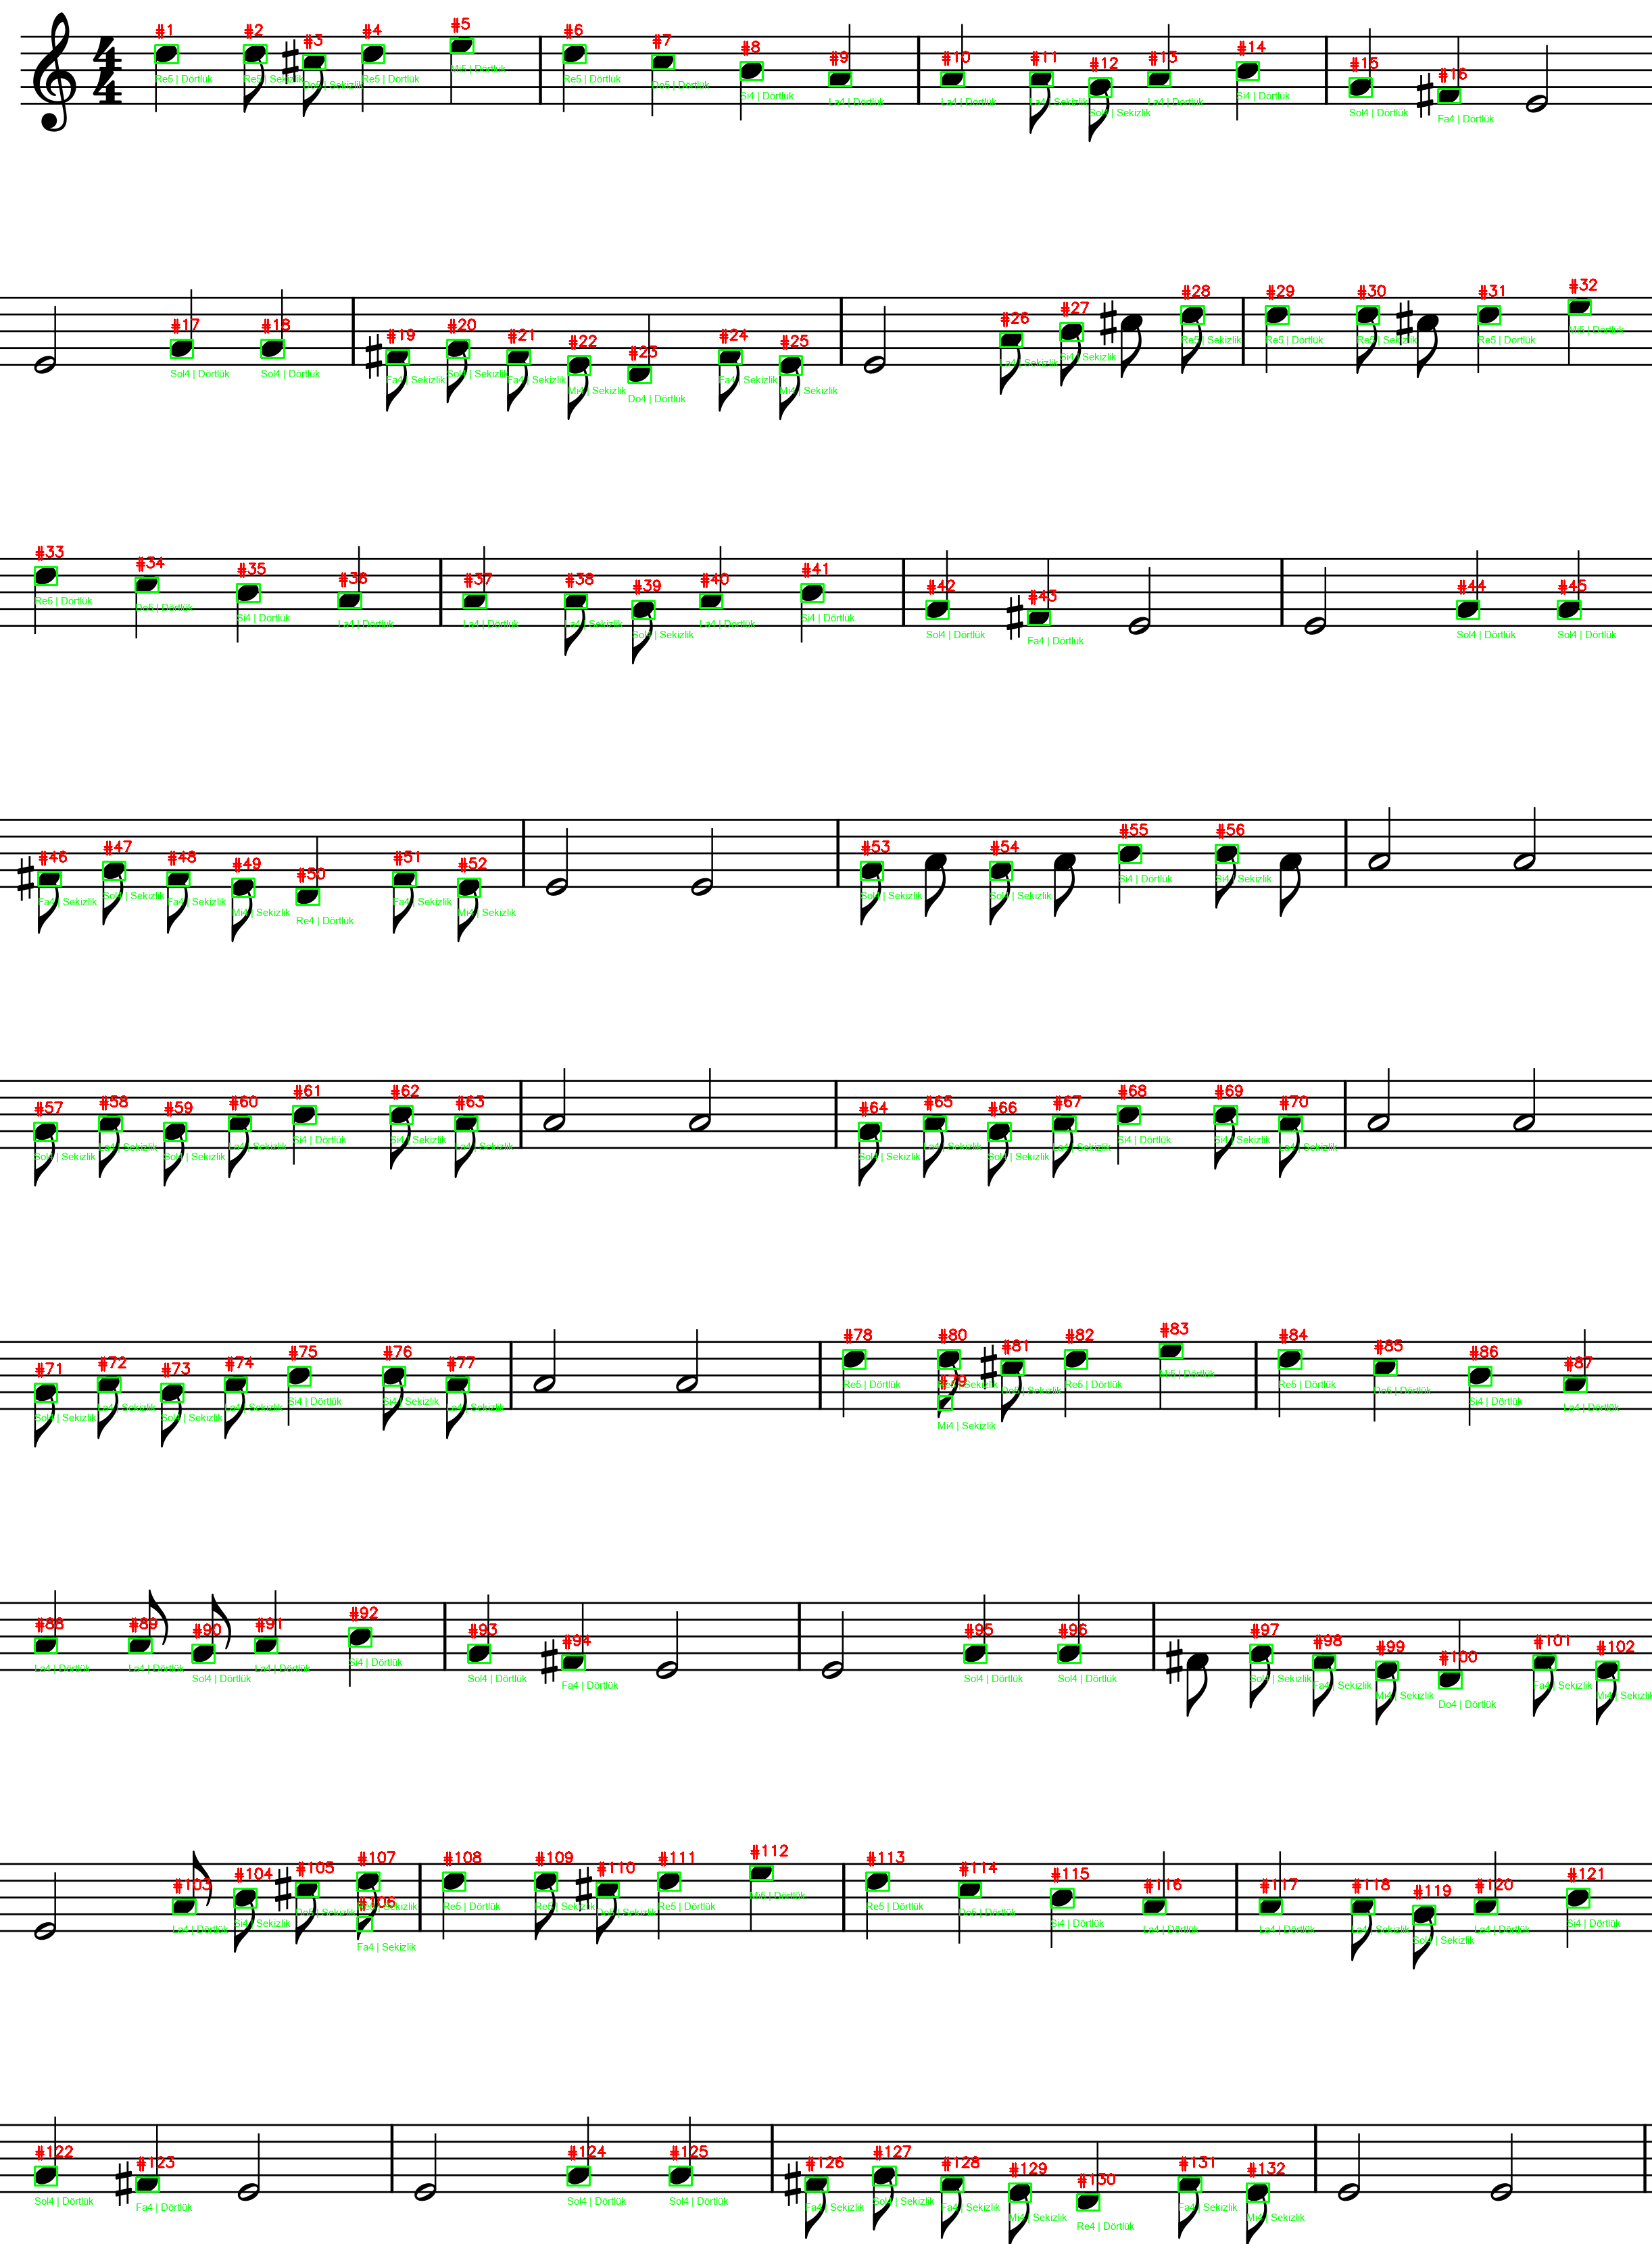
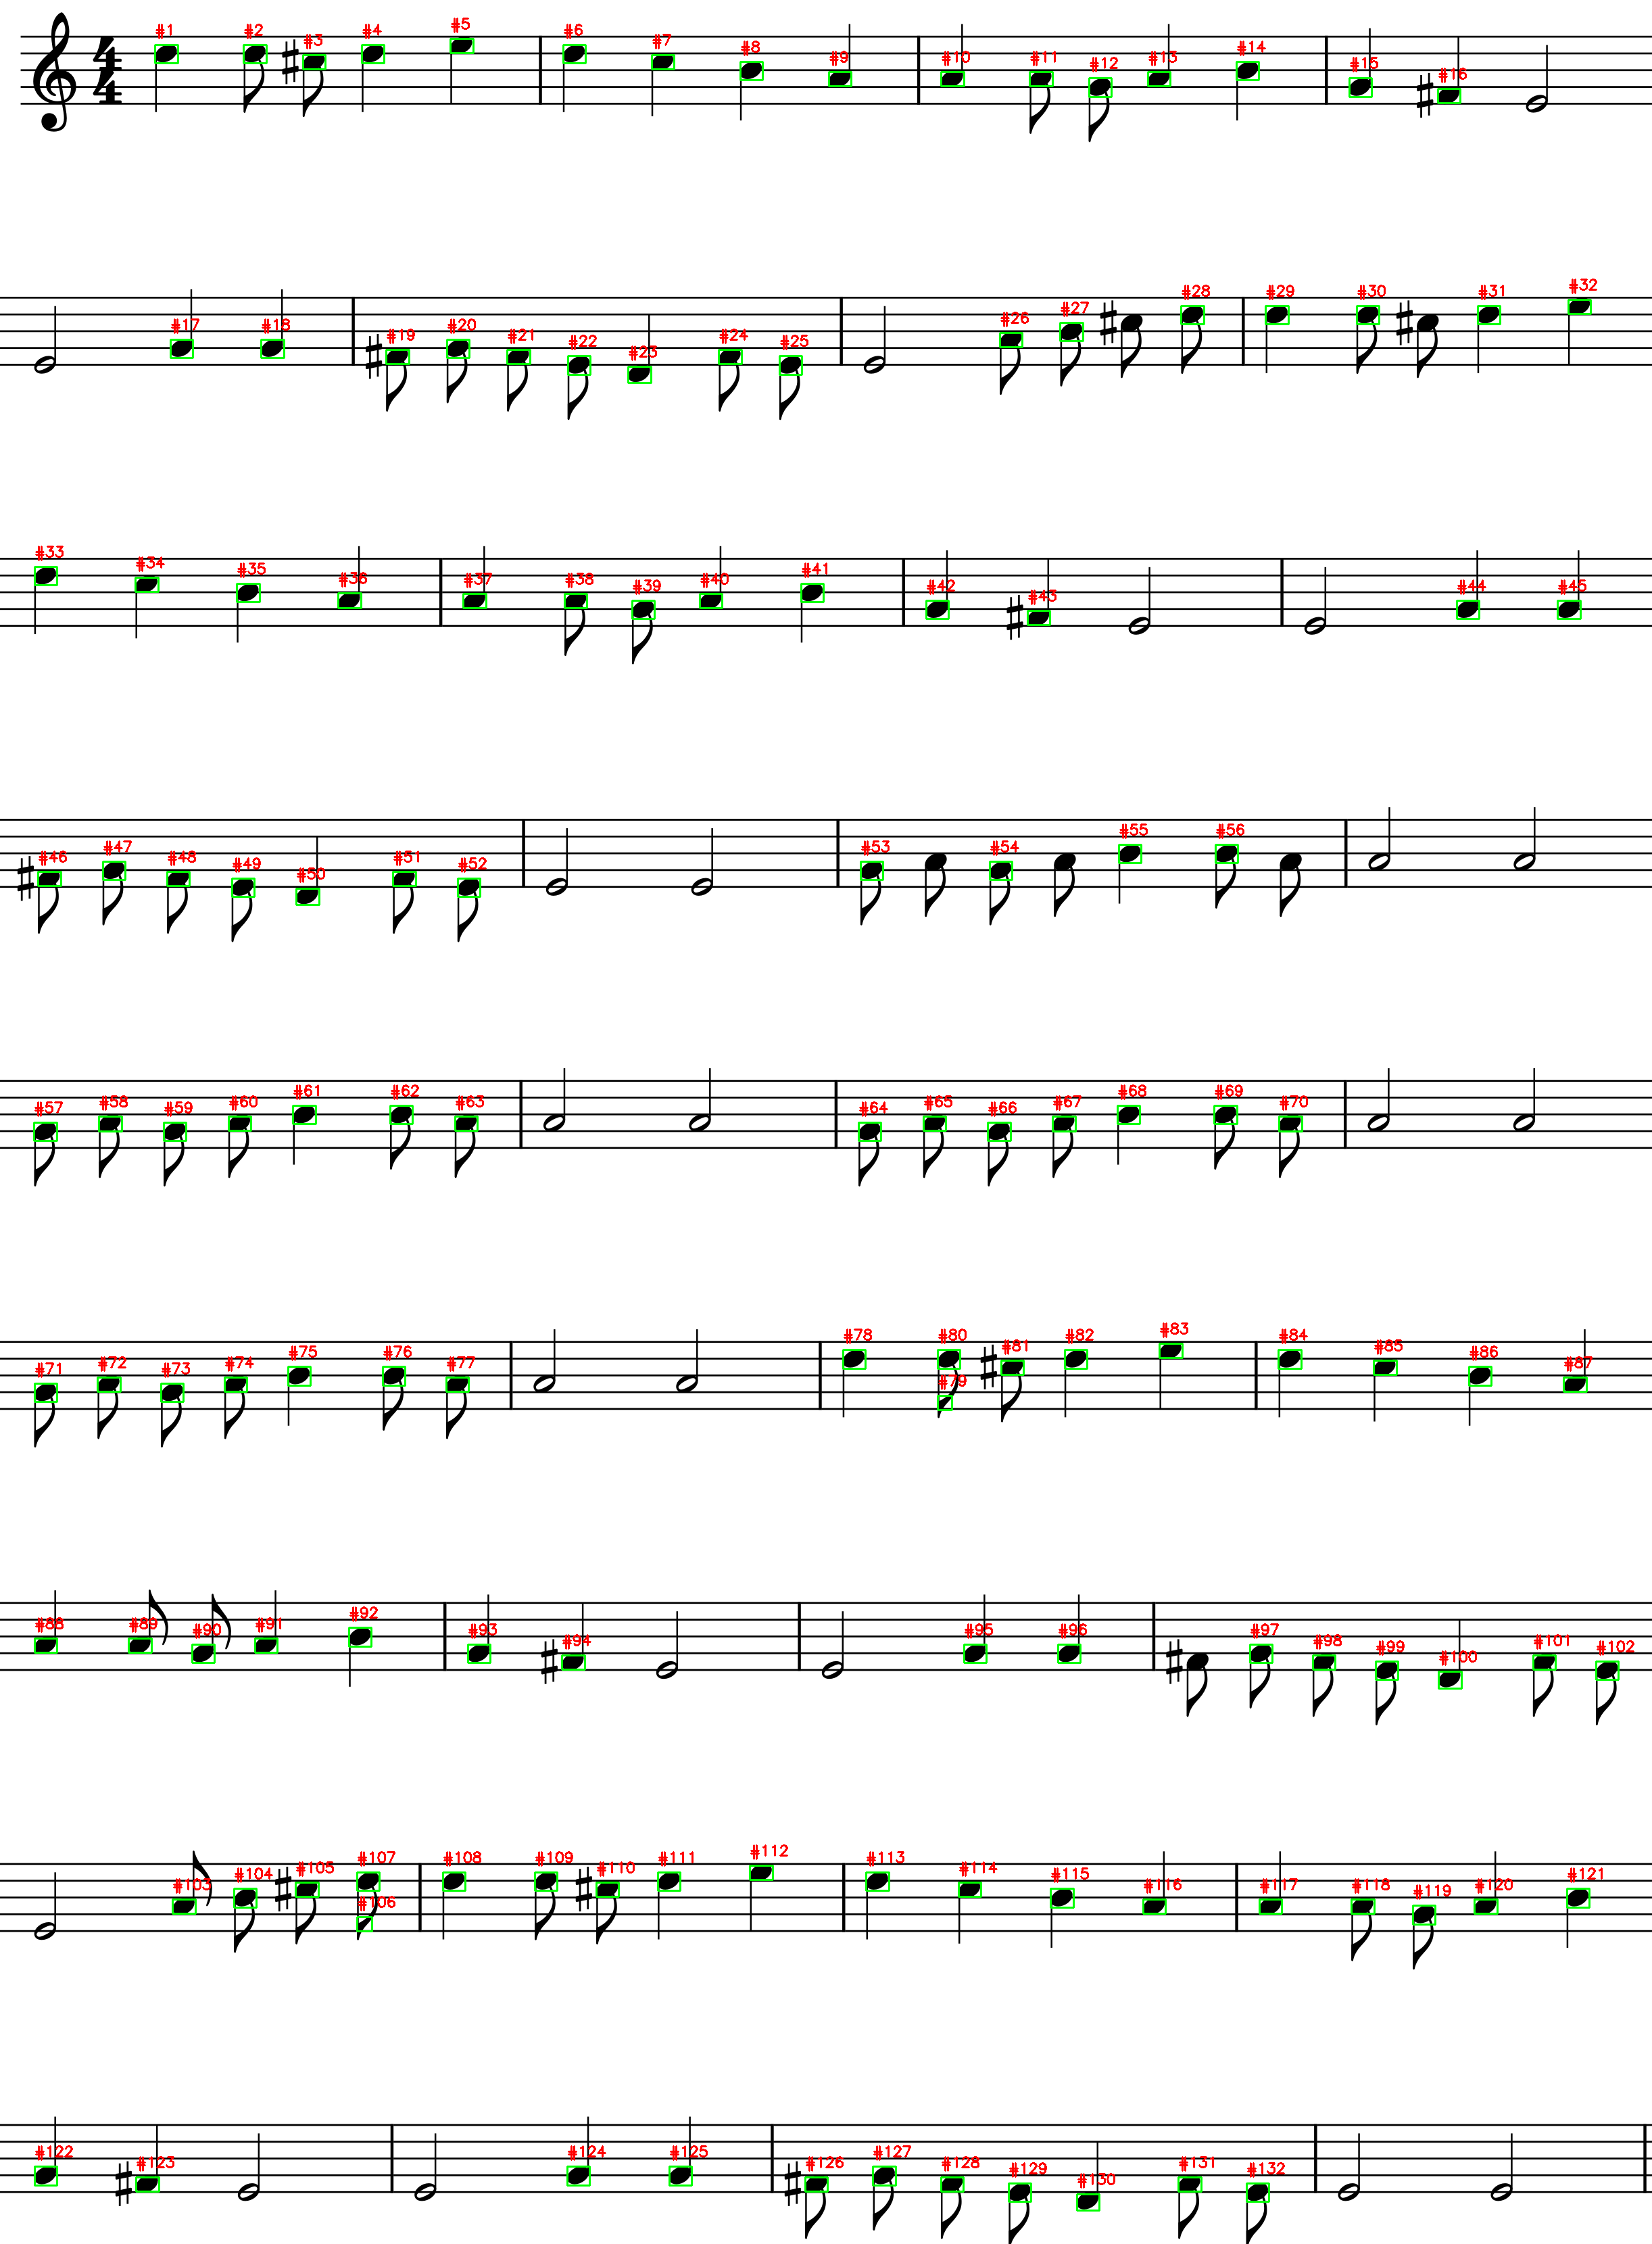
feat: defer pitch/duration visual overlay until after Gemini accidental analysis and enhance prompt details

diff --git a/main.py b/main.py
@@ -76,13 +76,17 @@ def run_image_processing_module(file_path):
         order_text = f"#{i+1}" 
         cv2.putText(temp_img, order_text, (note['x'], note['y'] - 15), cv2.FONT_HERSHEY_SIMPLEX, 0.7, (0, 0, 255), 2)
 
-        temp_img = symbol_analysis.put_text(temp_img, info_text, (note['x'], note['y'] + note['h'] + 15))
+        # Yeşil metin (Perde | Süre) artık Gemini analizinden sonra yazdırılacak.
 
         # Veri yapısını oluşturma
         score_data_for_matching.append({
             "pitch": note['pitch_info'], 
             "duration_type": duration_tr,
-            "order": i+1
+            "order": i+1,
+            "x": note['x'],
+            "y": note['y'],
+            "w": note['w'],
+            "h": note['h']
         })
 
 
@@ -168,6 +172,10 @@ def run_image_processing_module(file_path):
         
         print(f"#{note['order']:<3} | {note['duration_type']:<10} | {note['pitch']:<5} | {note['accidental']:<5}")
         
+        # Görsel üzerine yeşil bilgileri yazdır (Gemini'den gelen güncel bilgilerle)
+        info_text = f"{final_pitch} | {note['duration_type']}"
+        temp_img = symbol_analysis.put_text(temp_img, info_text, (note['x'], note['y'] + note['h'] + 15))
+
         final_score_data.append({
             "pitch": final_pitch,
             "duration_type": note['duration_type'], # 'Dörtlük' vb.

diff --git a/image_processing/gemini_analyzer.py b/image_processing/gemini_analyzer.py
@@ -79,12 +79,11 @@ class GeminiMusicAnalyzer:
             Her bir numaralı nota için şu bilgileri içeren bir JSON listesi döndür:
             - "order": Notanın üzerindeki numara (1, 2, 3 vb.)
             - "duration": Notanın süresi (Whole, Half, Quarter, Eighth, Sixteenth)
-            - "accidental": Notanın hemen SOLUNDA (bitişiğinde) bir işaret olup olmadığını kontrol et. 
+            - "accidental": Notanın hemen SOLUNDA (bitişiğinde) bir işaret olup olmadığını ÇOK DİKKATLİ kontrol et. 
                - Seçenekler: "Sharp" (#), "Flat" (b), "Natural" (naturel işareti), "None".
+               - ÖNEMLİ: Bazı diyez/bemol işaretleri silik veya küçük olabilir. Eğer notanın solunda herhangi bir ek sembol varsa, bu mutlaka bir arıza işaretidir.
             - "accidental_box_2d": Eğer "accidental" "None" DEĞİLSE, bu işaretin tam koordinatlarını [ymin, xmin, ymax, xmax] (0-1000 arası) olarak döndür. 
-               - ÖNEMLİ: Kutu sadece arıza işaretini (diyez/bemol/naturel) kapsamalıdır, notanın kendisini değil.
-               - İpucu: Arıza işaretleri çok küçük olabilir, her bir numaranın hemen soluna çok dikkatli bak. 
-               - Eğer işaret yoksa null döndür.
+               - Kutu sadece arıza işaretini (diyez/bemol/naturel) kapsamalıdır.
             
             Sadece JSON listesi döndür. Cevapta başka hiçbir metin olmasın.
             Örnek format: [{"order": 1, "duration": "Quarter", "accidental": "Sharp", "accidental_box_2d": [100, 200, 150, 250]}]